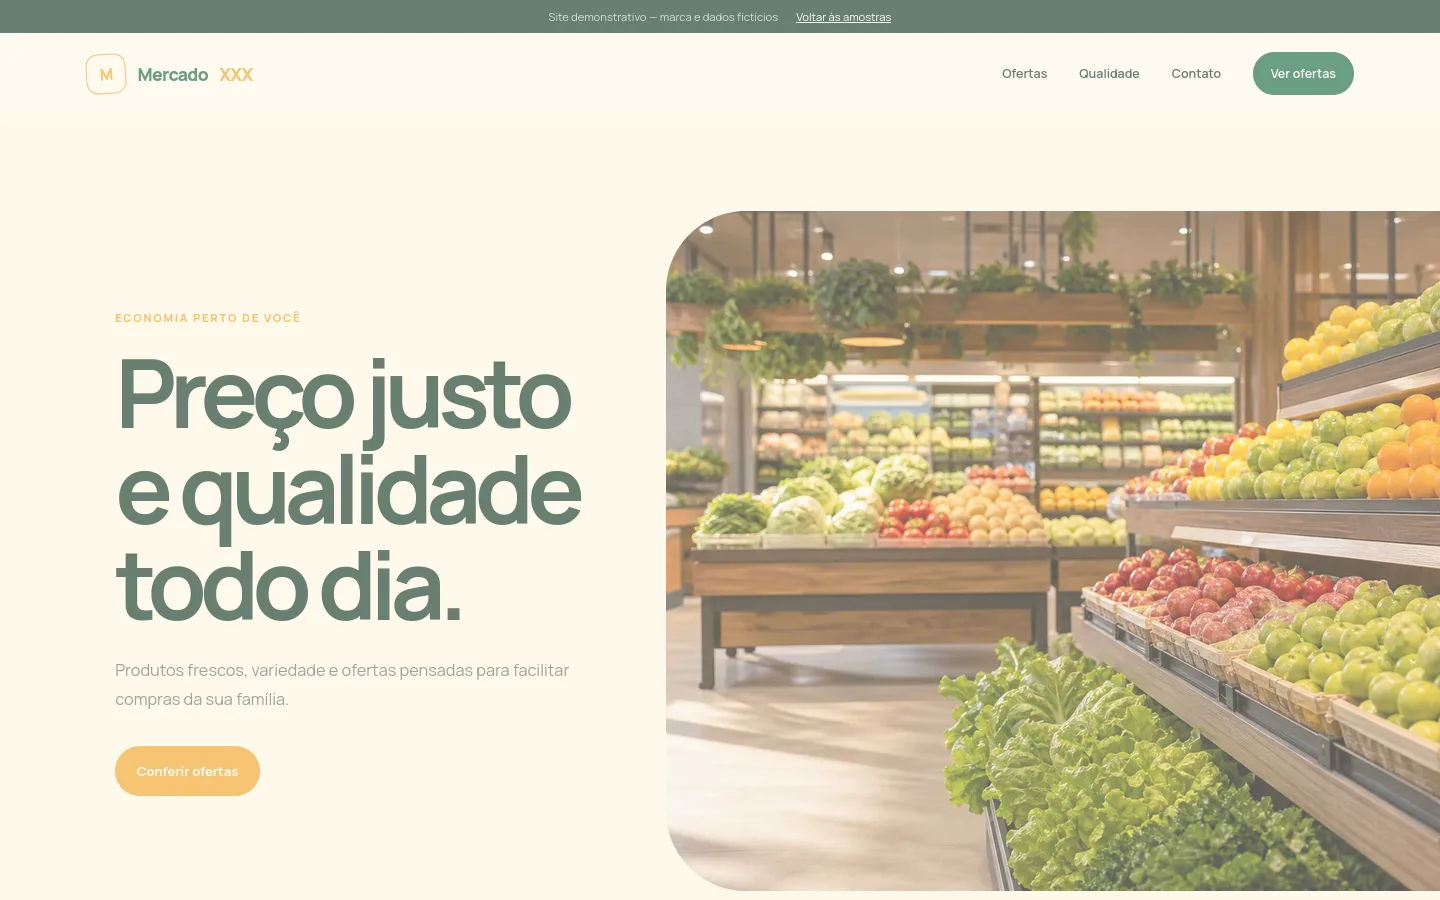
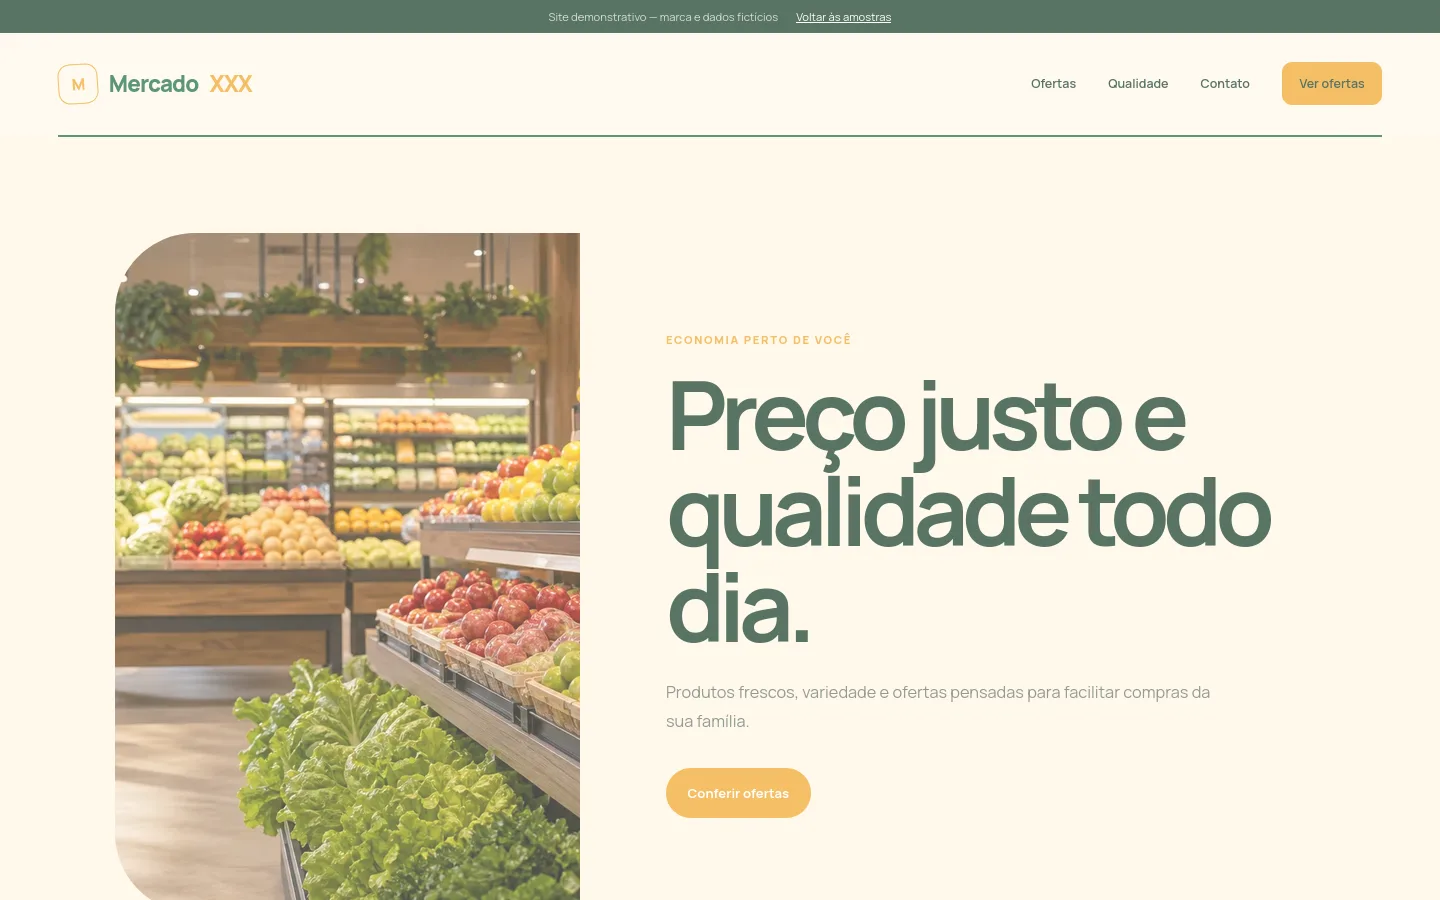
fix: diversify demo navigation and composition

diff --git a/src/css/demo-negocio.css b/src/css/demo-negocio.css
@@ -44,7 +44,12 @@ body.tema-academia .botao { color: #101827; }
 body.tema-imobiliaria { --cor: #1d4d6b; --acao: #d49b58; --claro: #f4f7f8; --tinta: #102d40; }
 
 /* Mercado: campanha varejista, foto panorâmica e ofertas em cartões coloridos */
+.tema-mercado header { height: 104px; margin: 0 4vw; padding: 0; border-bottom: 2px solid #176b43; }
+.tema-mercado .logo { font-size: 1.4rem; }
+.tema-mercado nav .nav-acao { border-radius: 10px; background: #f1a62c; color: #123b2a; }
 .tema-mercado .hero { min-height: 680px; grid-template-columns: .75fr 1.25fr; padding-right: 0; background: #fff8e8; }
+.tema-mercado .hero > div:first-child { grid-column: 2; grid-row: 1; padding-right: 8vw; }
+.tema-mercado .hero__foto { grid-column: 1; grid-row: 1; }
 .tema-mercado .hero__foto { height: 680px; border-radius: 80px 0 0 80px; box-shadow: none; }
 .tema-mercado .conteudo { background: #176b43; color: white; }
 .tema-mercado .conteudo h2 { color: white; }
@@ -53,6 +58,9 @@ body.tema-imobiliaria { --cor: #1d4d6b; --acao: #d49b58; --claro: #f4f7f8; --tin
 .tema-mercado .destaque { grid-template-columns: 1fr 1.4fr; background: #fff8e8; }
 
 /* Clínica: editorial leve, hero em cartão suspenso e especialidades circulares */
+.tema-clinica header { width: min(1180px,92%); margin: 1.2rem auto 0; padding: 0 2rem; border-radius: 999px; background: white; box-shadow: 0 12px 35px rgba(54,125,145,.08); }
+.tema-clinica .logo[data-mark]::before { border-radius: 50%; }
+.tema-clinica nav .nav-acao { background: #dd6c7b; }
 .tema-clinica .hero { margin: 3rem 6vw 6rem; min-height: 580px; padding: 5rem; border-radius: 42px; background: white; box-shadow: 0 25px 80px rgba(54,125,145,.12); }
 .tema-clinica .hero__foto { height: 520px; border-radius: 260px 260px 30px 30px; box-shadow: none; }
 .tema-clinica .faixa { margin: -8rem auto 4rem; width: min(900px,90%); position: relative; border-radius: 999px; }
@@ -61,7 +69,9 @@ body.tema-imobiliaria { --cor: #1d4d6b; --acao: #d49b58; --claro: #f4f7f8; --tin
 .tema-clinica .destaque { background: #dff4f7; }
 
 /* Restaurante: capa escura cinematográfica e cardápio como menu impresso */
-.tema-restaurante header { position: absolute; top: 31px; z-index: 4; width: 100%; color: white; background: transparent; }
+.tema-restaurante header { position: absolute; top: 31px; left: 5vw; right: 5vw; z-index: 4; width: auto; height: 105px; padding: 0; color: white; background: transparent; border-bottom: 1px solid rgba(255,255,255,.3); }
+.tema-restaurante .logo[data-mark]::before { border-radius: 50%; font-family: Georgia,serif; }
+.tema-restaurante nav { text-transform: uppercase; letter-spacing: .12em; }
 .tema-restaurante .logo { color: white; }
 .tema-restaurante .hero { min-height: 780px; position: relative; display: flex; color: white; background: #24110f; }
 .tema-restaurante .hero > div:first-child { position: relative; z-index: 2; max-width: 760px; }
@@ -77,7 +87,10 @@ body.tema-imobiliaria { --cor: #1d4d6b; --acao: #d49b58; --claro: #f4f7f8; --tin
 
 /* Academia: brutalista escuro, tipografia inclinada e blocos sem arredondamento */
 .tema-academia { background: #0b1019; color: white; }
-.tema-academia header { color: white; background: #0b1019; border-bottom: 1px solid #263140; }
+.tema-academia header { height: 108px; color: white; background: #0b1019; border-bottom: 5px solid #e9ff4f; }
+.tema-academia .logo[data-mark]::before { border-radius: 0; transform: skew(-8deg); }
+.tema-academia nav { text-transform: uppercase; font-style: italic; }
+.tema-academia nav .nav-acao { border-radius: 0; background: #e9ff4f; }
 .tema-academia .logo { color: white; text-transform: uppercase; font-style: italic; }
 .tema-academia .hero { min-height: 720px; color: white; background: #0b1019; }
 .tema-academia .hero h1 { color: white; text-transform: uppercase; font-style: italic; }
@@ -91,8 +104,13 @@ body.tema-imobiliaria { --cor: #1d4d6b; --acao: #d49b58; --claro: #f4f7f8; --tin
 .tema-academia .grade p { color: #aab3c2; }
 
 /* Imobiliária: revista arquitetônica com foto dominante e conteúdo sobreposto */
+.tema-imobiliaria header { position: absolute; top: 31px; left: 0; z-index: 4; width: 270px; height: 729px; padding: 3rem 2rem; align-items: flex-start; flex-direction: column; color: white; background: rgba(16,45,64,.94); }
+.tema-imobiliaria .logo { color: white; }
+.tema-imobiliaria .logo[data-mark]::before { border-radius: 0; }
+.tema-imobiliaria nav { width: 100%; align-items: flex-start; flex-direction: column; border-top: 1px solid rgba(255,255,255,.2); padding-top: 2rem; }
+.tema-imobiliaria nav .nav-acao { width: 100%; text-align: center; border-radius: 0; background: #d49b58; }
 .tema-imobiliaria .hero { min-height: 760px; grid-template-columns: 1fr; position: relative; padding: 0; background: #102d40; }
-.tema-imobiliaria .hero > div:first-child { z-index: 2; max-width: 720px; margin: 7rem 8vw; padding: 3rem; color: white; background: rgba(16,45,64,.88); backdrop-filter: blur(8px); }
+.tema-imobiliaria .hero > div:first-child { z-index: 2; max-width: 720px; margin: auto 7vw 4rem auto; padding: 3rem; color: white; background: rgba(16,45,64,.88); backdrop-filter: blur(8px); }
 .tema-imobiliaria .hero h1 { color: white; font-family: Georgia, serif; font-weight: 400; }
 .tema-imobiliaria .hero p { color: #cbd9e0; }
 .tema-imobiliaria .hero__foto { position: absolute; inset: 0; height: 100%; border-radius: 0; box-shadow: none; }
@@ -109,9 +127,10 @@ body.tema-imobiliaria { --cor: #1d4d6b; --acao: #d49b58; --claro: #f4f7f8; --tin
   .conteudo, .destaque { padding: 5rem 1.5rem; }.grade, .destaque { grid-template-columns: 1fr; }
   .destaque__arte { max-width: 460px; width: 100%; }.cta { padding: 4rem 1.5rem; align-items: flex-start; flex-direction: column; }
   footer { gap: 1rem; flex-direction: column; }
-  .tema-mercado .hero { padding-right: 1.5rem; }.tema-mercado .hero__foto { height: 320px; border-radius: 35px; }
-  .tema-clinica .hero { margin: 1rem; padding: 3rem 1.25rem; border-radius: 25px; }.tema-clinica .hero__foto { border-radius: 180px 180px 20px 20px; }.tema-clinica .faixa { margin: 1rem 0; width: 100%; border-radius: 0; }
-  .tema-restaurante header { top: 33px; }.tema-restaurante .hero { padding-top: 8rem; }.tema-restaurante .hero__foto { position: absolute; height: 100%; }.tema-restaurante .hero > div:first-child { z-index: 2; }
+  .tema-mercado header { height: 72px; margin: 0; padding: 0 1.25rem; border-bottom-width: 1px; }.tema-mercado .hero { padding-right: 1.5rem; }.tema-mercado .hero > div:first-child { grid-column: 1; grid-row: 1; padding: 0; }.tema-mercado .hero__foto { grid-column: 1; grid-row: 2; height: 320px; border-radius: 35px; }
+  .tema-clinica header { width: 100%; margin: 0; padding: 0 1.25rem; border-radius: 0; }.tema-clinica .hero { margin: 1rem; padding: 3rem 1.25rem; border-radius: 25px; }.tema-clinica .hero__foto { border-radius: 180px 180px 20px 20px; }.tema-clinica .faixa { margin: 1rem 0; width: 100%; border-radius: 0; }
+  .tema-restaurante header { top: 33px; left: 1.25rem; right: 1.25rem; height: 72px; }.tema-restaurante .hero { padding-top: 8rem; }.tema-restaurante .hero__foto { position: absolute; height: 100%; }.tema-restaurante .hero > div:first-child { z-index: 2; }
+  .tema-academia header { height: 72px; border-bottom-width: 3px; }
   .tema-academia .hero__foto { height: 330px; clip-path: polygon(8% 0,100% 0,92% 100%,0 100%); }.tema-academia .hero h1 { font-size: 2.7rem; }
-  .tema-imobiliaria .hero { min-height: 740px; }.tema-imobiliaria .hero > div:first-child { margin: auto 1rem 2rem; padding: 2rem; }.tema-imobiliaria .hero__foto { position: absolute; height: 100%; }.tema-imobiliaria .grade { grid-template-columns: 1fr; }
+  .tema-imobiliaria header { position: relative; top: auto; width: 100%; height: 72px; padding: 0 1.25rem; align-items: center; flex-direction: row; }.tema-imobiliaria nav { position: absolute; top: 72px; width: auto; align-items: center; border: 0; padding: 2rem; }.tema-imobiliaria .hero { min-height: 740px; }.tema-imobiliaria .hero > div:first-child { margin: auto 1rem 2rem; padding: 2rem; }.tema-imobiliaria .hero__foto { position: absolute; height: 100%; }.tema-imobiliaria .grade { grid-template-columns: 1fr; }
 }

diff --git a/src/css/demo-petshop.css b/src/css/demo-petshop.css
@@ -14,6 +14,8 @@ nav a:hover { color: var(--laranja); }
 .agendar { padding: .8rem 1.1rem; color: white; background: var(--verde); border-radius: 999px; }
 .menu { display: none; border: 0; background: none; font: inherit; }
 .hero { min-height: 650px; padding: 5rem 8vw; display: grid; grid-template-columns: 1fr .85fr; gap: 6vw; align-items: center; background: linear-gradient(120deg, #f0fff9, #d6f5e9); overflow: hidden; }
+.hero__texto { grid-column: 2; grid-row: 1; }
+.hero__foto { grid-column: 1; grid-row: 1; }
 .tag { color: var(--laranja); font-size: .72rem; font-weight: 800; letter-spacing: .14em; text-transform: uppercase; }
 h1 { margin: 1rem 0 1.5rem; color: var(--verde); font-size: clamp(3rem, 7vw, 6rem); line-height: .98; letter-spacing: -.07em; }
 h1 em { color: var(--laranja); font-style: normal; }
@@ -51,6 +53,8 @@ footer { padding: 2rem 6vw; display: flex; justify-content: space-between; align
   nav { display: none; position: absolute; z-index: 3; top: 107px; left: 0; right: 0; padding: 2rem; flex-direction: column; background: var(--creme); }
   nav.aberto { display: flex; }
   .hero { min-height: auto; padding: 5rem 1.5rem; grid-template-columns: 1fr; }
+  .hero__texto { grid-column: 1; grid-row: 1; }
+  .hero__foto { grid-column: 1; grid-row: 2; }
   .hero__foto { width: 100%; height: 320px; border-width: 7px; box-shadow: 12px 12px 0 #f8c45f; }
   .beneficios { overflow-x: auto; justify-content: flex-start; white-space: nowrap; }
   .servicos, .sobre { padding: 5rem 1.5rem; }
